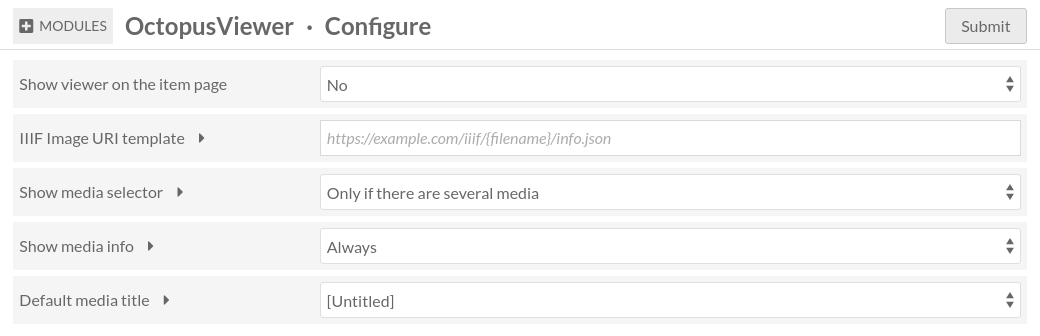
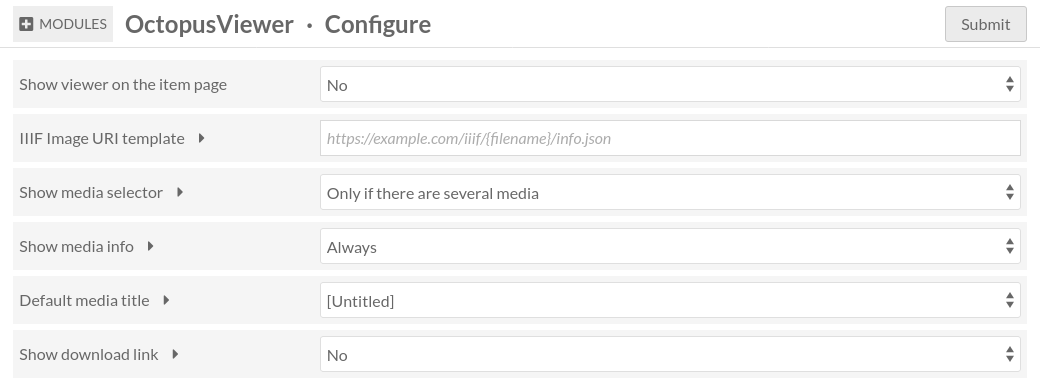
Allow to display a download link in the media information panel

diff --git a/asset/js/octopusviewer-viewer.js b/asset/js/octopusviewer-viewer.js
@@ -96,7 +96,7 @@
             const mediaSelector = this.shadowRoot.querySelector('.octopusviewer-media-selector');
 
             mediaSelector.addEventListener('click', ev => {
-                // Allow download link to be clicked
+                // Allow links to be clicked
                 if (ev.target.closest('a[href]')) {
                     ev.stopPropagation();
                     return;
@@ -114,6 +114,12 @@
             });
 
             this.shadowRoot.querySelector('.octopusviewer-viewer').addEventListener('click', ev => {
+                // Allow links to be clicked
+                if (ev.target.closest('a[href]')) {
+                    ev.stopPropagation();
+                    return;
+                }
+
                 ev.preventDefault();
                 const el = ev.target.closest('.collapse-toggle');
                 if (!el) {
@@ -132,6 +138,7 @@
             const mediaInfoUrl = new URL(mediaElement.getAttribute('data-octopusviewer-info-url'), baseUrl);
             const mediaView = octopusViewer.querySelector('.octopusviewer-media-view');
             const mediaInfo = octopusViewer.querySelector('.octopusviewer-media-info-metadata');
+            const mediaInfoFooter = octopusViewer.querySelector('.octopusviewer-media-info-footer');
 
             mediaView.innerHTML = '';
             fetch(mediaRenderUrl).then(response => {
@@ -143,9 +150,10 @@
             mediaInfo.innerHTML = '';
             if (this.showMediaInfo === 'always') {
                 fetch(mediaInfoUrl).then(response => {
-                    return response.text();
-                }).then(text => {
-                    mediaInfo.innerHTML = text;
+                    return response.json();
+                }).then(data => {
+                    mediaInfo.innerHTML = data.content;
+                    mediaInfoFooter.innerHTML = data.footer;
                 });
             }
 
@@ -223,6 +231,7 @@
                 <i class="octopusviewer-icon-collapse"></i>
             </div>
             <div class="sidebar-content octopusviewer-media-info-metadata"></div>
+            <div class="sidebar-footer octopusviewer-media-info-footer"></div>
         </div>
     </div>
     <div class="octopusviewer-footer"></div>

diff --git a/asset/css/octopusviewer-viewer.css b/asset/css/octopusviewer-viewer.css
@@ -98,10 +98,12 @@
 }
 
 .sidebar-content {
+    flex-grow: 1;
     overflow-y: auto;
 }
 
-.sidebar.collapsed .sidebar-content {
+.sidebar.collapsed .sidebar-content,
+.sidebar.collapsed .sidebar-footer {
     display: none;
 }
 
@@ -155,7 +157,8 @@
     background-color: #f0f0f0;
 }
 
-.octopusviewer-media-info-metadata {
+.octopusviewer-media-info-metadata,
+.octopusviewer-media-info-footer:not(:empty) {
     padding: 6px;
 }
 
@@ -205,6 +208,14 @@
     width: 100%;
 }
 
+a.octopusviewer-download {
+    text-decoration: none;
+}
+
+.octopusviewer-media-selector .octopusviewer-download span {
+    display: none;
+}
+
 [class*=octopusviewer-icon-] {
     display: inline-block;
     line-height: 0;
@@ -218,4 +229,7 @@
 }
 .octopusviewer-icon-collapse::before {
     content: url(../image/collapse.png);
+}
+.octopusviewer-icon-download::before {
+    content: url(../image/download.png);
 }

diff --git a/Module.php b/Module.php
@@ -2,11 +2,13 @@
 
 namespace OctopusViewer;
 
+use Composer\Semver\Comparator;
 use Omeka\Module\AbstractModule;
 use Laminas\EventManager\Event;
 use Laminas\EventManager\SharedEventManagerInterface;
 use Laminas\Mvc\Controller\AbstractController;
 use Laminas\Mvc\MvcEvent;
+use Laminas\ServiceManager\ServiceLocatorInterface;
 use Laminas\View\Renderer\PhpRenderer;
 use OctopusViewer\Form\ConfigForm;
 use OctopusViewer\Form\SiteSettingsFieldset;
@@ -77,6 +79,24 @@ class Module extends AbstractModule
         }
 
         $sharedEventManager->attach('Omeka\Form\SiteSettingsForm', 'form.add_elements', [$this, 'onSiteSettingsFormAddElements']);
+    }
+
+    public function upgrade($oldVersion, $newVersion, ServiceLocatorInterface $services)
+    {
+        $connection = $services->get('Omeka\Connection');
+        if (Comparator::lessThan($oldVersion, '0.7.0')) {
+            $sql = <<<'SQL'
+            UPDATE setting SET value = '"media-selector"'
+            WHERE id = 'octopusviewer_show_download_link' AND value = '"yes"';
+            SQL;
+            $connection->exec($sql);
+
+            $sql = <<<'SQL'
+            UPDATE site_setting SET value = '"media-selector"'
+            WHERE id = 'octopusviewer_show_download_link' AND value = '"yes"';
+            SQL;
+            $connection->exec($sql);
+        }
     }
 
     public function getConfig()

diff --git a/src/Controller/Site/MediaController.php b/src/Controller/Site/MediaController.php
@@ -3,6 +3,7 @@
 namespace OctopusViewer\Controller\Site;
 
 use Laminas\Mvc\Controller\AbstractActionController;
+use Laminas\View\Model\JsonModel;
 use Laminas\View\Model\ViewModel;
 
 class MediaController extends AbstractActionController
@@ -23,12 +24,19 @@ class MediaController extends AbstractActionController
 
     public function infoAction()
     {
+        $partialHelper = $this->viewHelpers()->get('partial');
+
         $mediaId = $this->params()->fromRoute('id');
         $media = $this->api()->read('media', $mediaId)->getContent();
 
-        $view = new ViewModel();
-        $view->setVariable('media', $media);
-        $view->setTerminal(true);
+        $values = [
+            'media' => $media,
+        ];
+
+        $view = new JsonModel([
+            'content' => $partialHelper('octopus-viewer/site/media/info', $values),
+            'footer' => $partialHelper('octopus-viewer/site/media/info-footer', $values),
+        ]);
 
         $this->getResponse()->getHeaders()->addHeaderLine('Access-Control-Allow-Origin', '*');
 

diff --git a/src/Form/ConfigForm.php b/src/Form/ConfigForm.php
@@ -98,7 +98,9 @@ class ConfigForm extends Form
                 'info' => 'Show a link next to each media title to download the original file when available (does not work with some media types like Youtube videos for instance)', // @translate
                 'value_options' => [
                     'no' => 'No', // @translate
-                    'yes' => 'Yes', // @translate
+                    'media-selector' => 'In the media selector panel', // @translate
+                    'media-info' => 'In the media information panel', // @translate
+                    'media-selector|media-info' => 'In the media selector panel and in the media information panel', // @translate
                 ],
             ],
             'attributes' => [

diff --git a/src/Form/SiteSettingsFieldset.php b/src/Form/SiteSettingsFieldset.php
@@ -74,7 +74,9 @@ class SiteSettingsFieldset extends Fieldset
                 'empty_option' => 'Use global setting', // @translate
                 'value_options' => [
                     'no' => 'No', // @translate
-                    'yes' => 'Yes', // @translate
+                    'media-selector' => 'In the media selector panel', // @translate
+                    'media-info' => 'In the media information panel', // @translate
+                    'media-selector|media-info' => 'In the media selector panel and in the media information panel', // @translate
                 ],
             ],
             'attributes' => [

diff --git a/documentation/configuration.rst b/documentation/configuration.rst
@@ -104,16 +104,22 @@ No text
 Show download link
 ~~~~~~~~~~~~~~~~~~
 
-This setting controls whether a download link is shown or not next to the media
-title. This global setting can be overriden in :ref:`site settings <site-settings>`.
+This setting controls whether a download link is shown or not. This global
+setting can be overriden in :ref:`site settings <site-settings>`.
 
 Possible values:
 
 No
     Do not show a download link. This is the default behaviour.
 
-Yes
-    Show a download link.
+In the media selector panel
+    Show a download link next to each media title.
+
+In the media information panel
+    Show a download link in the media information panel.
+
+In the media selector panel and in the media information panel.
+    Show download links in both panels.
 
 .. note::
    This does not work for media types where the original file is not stored in
@@ -205,8 +211,14 @@ Use global setting
 No
     Do not show a download link. This is the default behaviour.
 
-Yes
-    Show a download link.
+In the media selector panel
+    Show a download link next to each media title.
+
+In the media information panel
+    Show a download link in the media information panel.
+
+In the media selector panel and in the media information panel.
+    Show download links in both panels.
 
 .. note::
    This does not work for media types where the original file is not stored in

diff --git a/CHANGELOG.md b/CHANGELOG.md
@@ -5,6 +5,10 @@ All notable changes to this project will be documented in this file.
 The format is based on [Keep a Changelog](https://keepachangelog.com/en/1.0.0/),
 and this project adheres to [Semantic Versioning](https://semver.org/spec/v2.0.0.html).
 
+## [0.7.0] - 2024-08-29
+
+- Allow to display a download link in the media information panel
+
 ## [0.6.0] - 2024-08-28
 
 - Add an optional download link for each downloadable media
@@ -89,6 +93,7 @@ directory and do a fresh install of OctopusViewer
 
 Initial release
 
+[0.7.0]: https://github.com/biblibre/omeka-s-module-OctopusViewer/releases/tag/v0.7.0
 [0.6.0]: https://github.com/biblibre/omeka-s-module-OctopusViewer/releases/tag/v0.6.0
 [0.5.5]: https://github.com/biblibre/omeka-s-module-OctopusViewer/releases/tag/v0.5.5
 [0.5.4]: https://github.com/biblibre/omeka-s-module-OctopusViewer/releases/tag/v0.5.4

diff --git a/documentation/theme/templates.rst b/documentation/theme/templates.rst
@@ -14,6 +14,9 @@ The following template files can be overriden by themes:
 ``view/octopus-viewer/site/media/info.phtml``
     The content of the right panel.
 
+``view/octopus-viewer/site/media/info-footer.phtml``
+    The footer of the right panel.
+
 ``view/octopus-viewer/site/viewer/media-selector.phtml``
     The content of the left panel.
 
